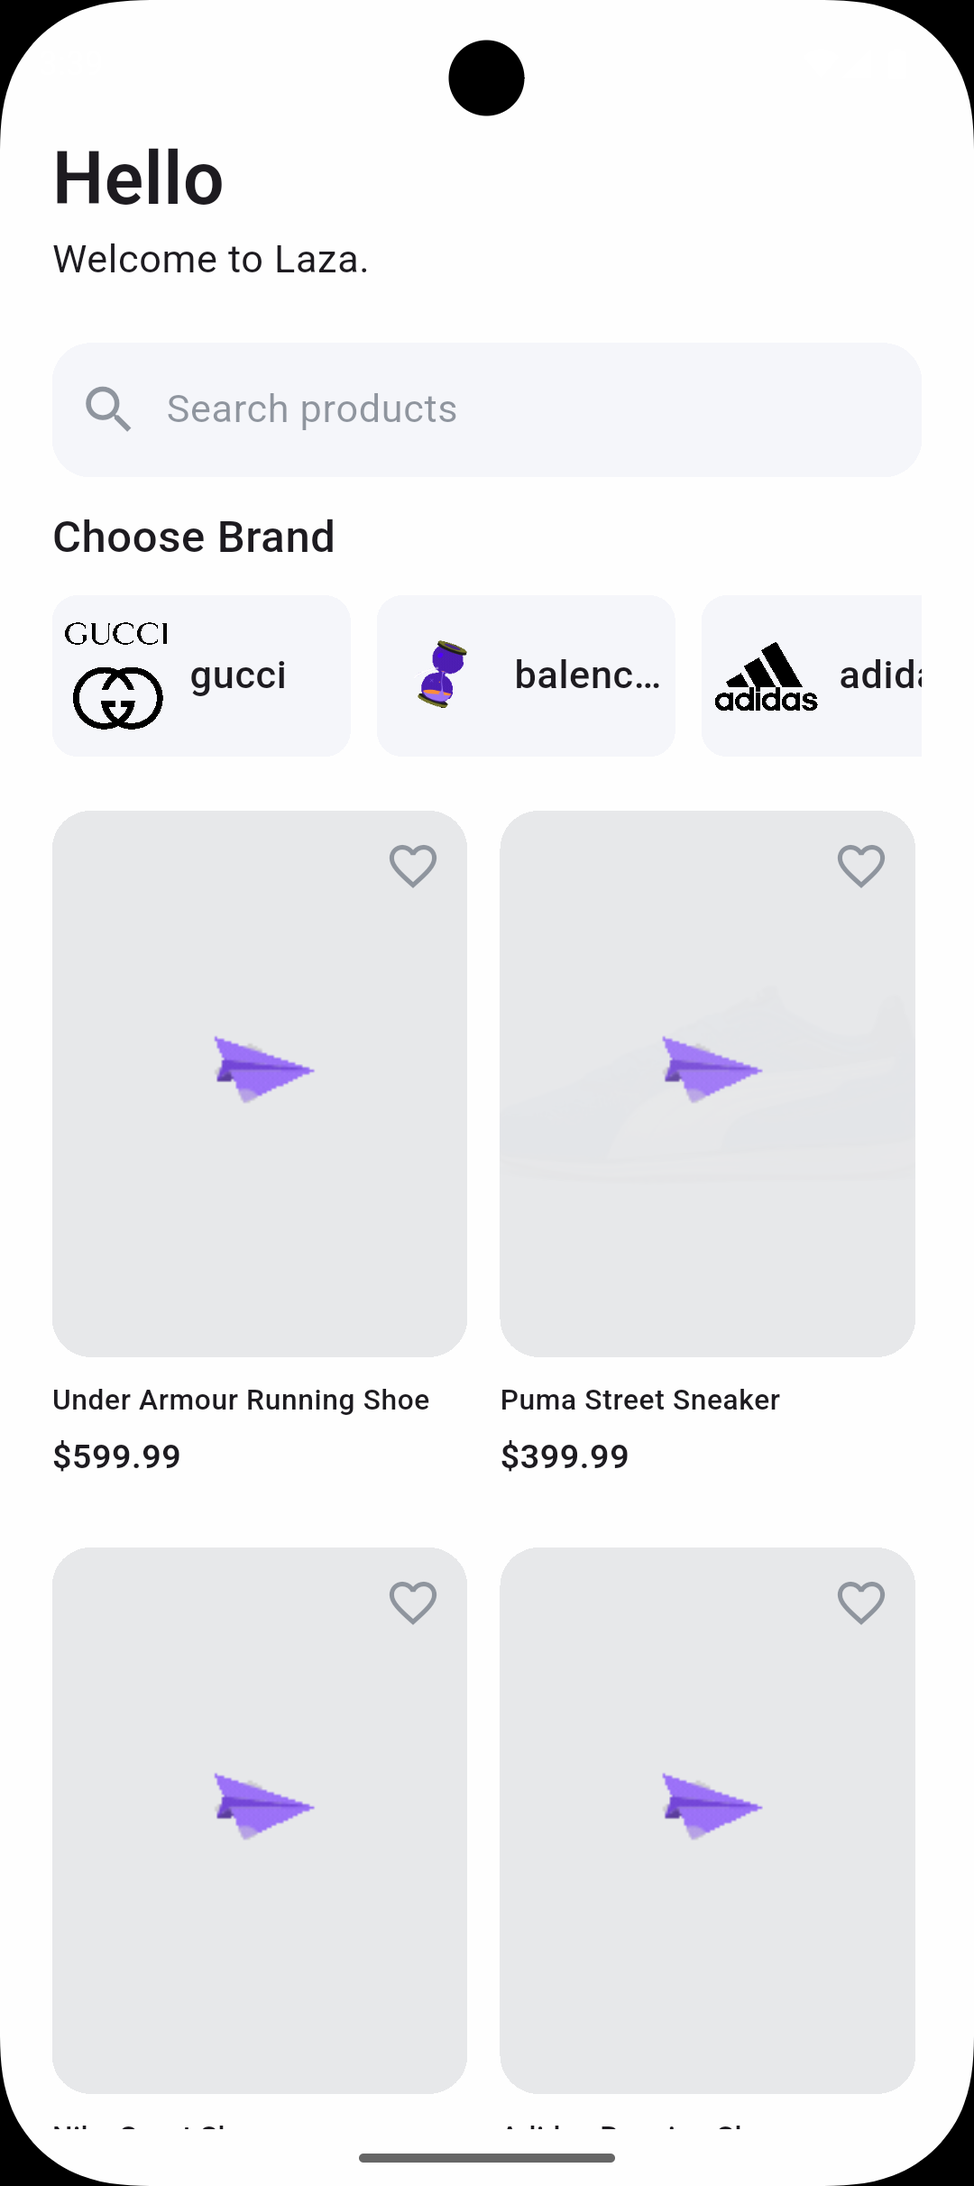
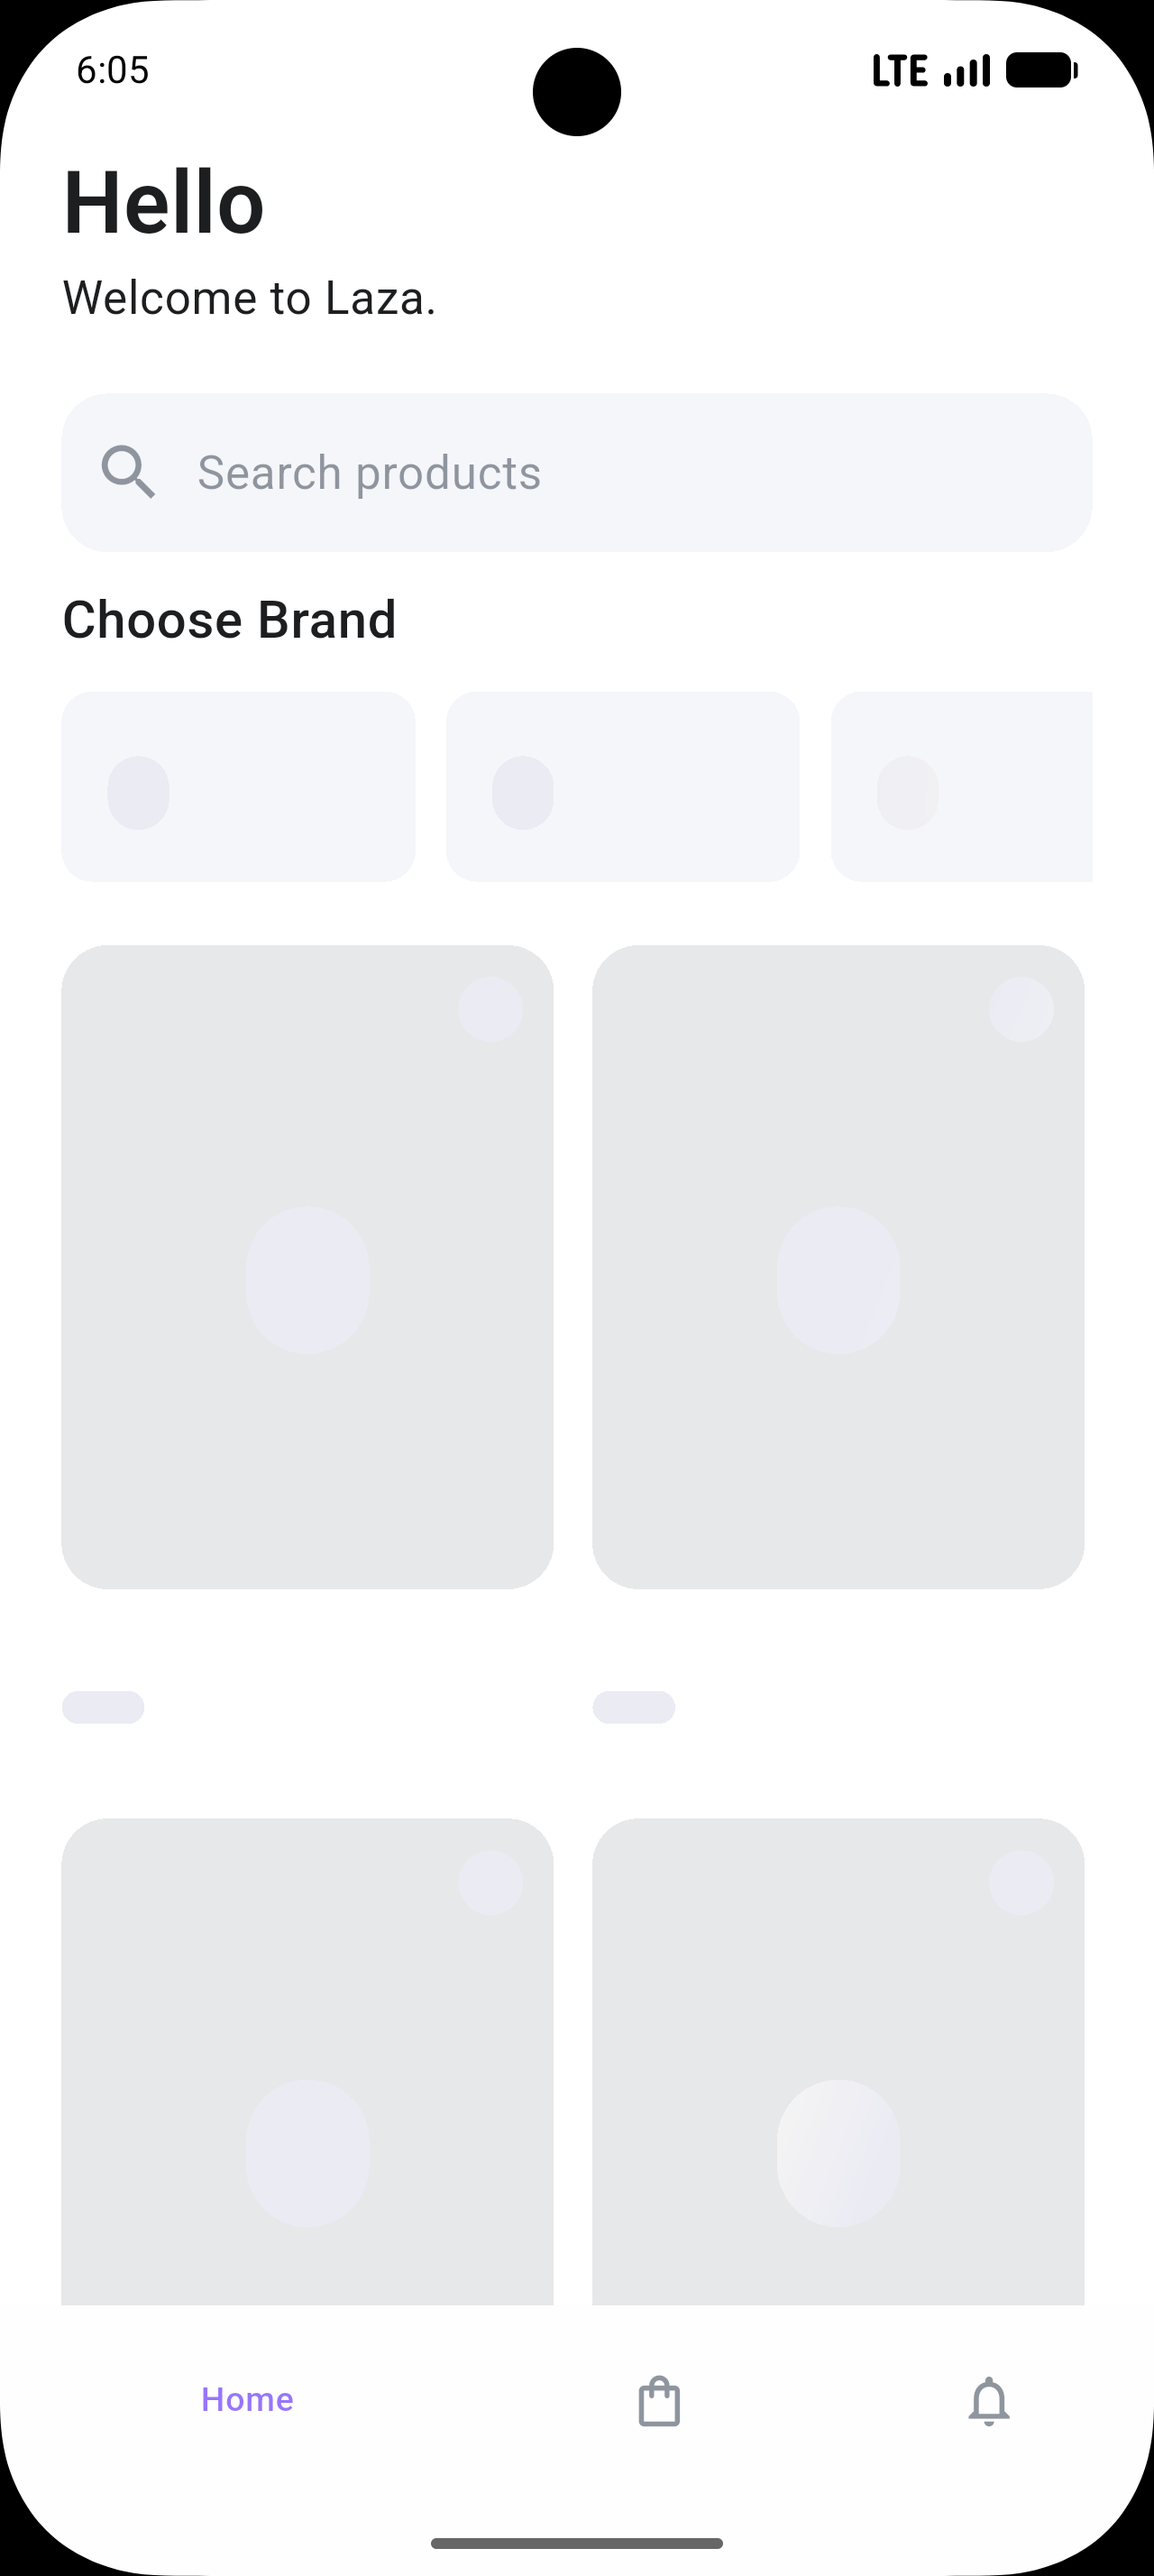
feat: Add skeleton loading animations and update README with new screenshots

diff --git a/README.md b/README.md
@@ -26,7 +26,7 @@ A modern Flutter e-commerce application for accessories shopping with a clean ar
 - **Secure Storage** - User tokens and sensitive data protection
 - **Network Caching** - Optimized image loading and caching
 - **Infinite Scroll Pagination** - Efficient data loading with automatic pagination for improved performance
-- **Skeleton Loading** - Beautiful skeleton loading animations with Skeletonizer
+- **Skeleton Loading (Skeletonizer)** - Beautiful shimmer loading animations throughout the app for enhanced UX during data fetching
 - **Custom Splash Screen** - Branded app launch experience
 - **Automatic Session Management** - Intelligent token refresh mechanism that handles expired tokens transparently
 
@@ -214,6 +214,10 @@ The app includes configuration for:
   <img src="screenshots/PRODUCTS_LOADING.png" width="250" alt="Products Loading Light">
   <img src="screenshots/PRODUCTS.png" width="250" alt="Products Light">
   <img src="screenshots/PRODUCT_DETAILS.png" width="250" alt="Product Details Light">
+</div>
+
+<div align="center">
+  <img src="screenshots/CART_LOADING.png" width="250" alt="Cart Loading Light">
   <img src="screenshots/CART.png" width="250" alt="Shopping Cart Light">
 </div>
 
@@ -223,6 +227,10 @@ The app includes configuration for:
   <img src="screenshots/PRODUCTS_LOADING_DARK.png" width="250" alt="Products Loading Dark">
   <img src="screenshots/PRODUCTS_DARK.png" width="250" alt="Products Dark">
   <img src="screenshots/PRODUCT_DETAILS_DARK.png" width="250" alt="Product Details Dark">
+</div>
+
+<div align="center">
+  <img src="screenshots/CART_LOADING_DARK.png" width="250" alt="Cart Loading Dark">
   <img src="screenshots/CART_DARK.png" width="250" alt="Shopping Cart Dark">
 </div>
 
@@ -235,6 +243,7 @@ The app includes configuration for:
 - **🛍 Complete Shopping Flow** - From browsing to product details and cart management
 - **🛒 Shopping Cart** - Intuitive cart with quantity adjustment and real-time price updates
 - **📄 Infinite Scroll Pagination** - Smooth and efficient product loading as you browse
+- **✨ Skeleton Loading** - Elegant shimmer animations powered by Skeletonizer for products and cart during data loading
 
 ## 🔧 Configuration
 
